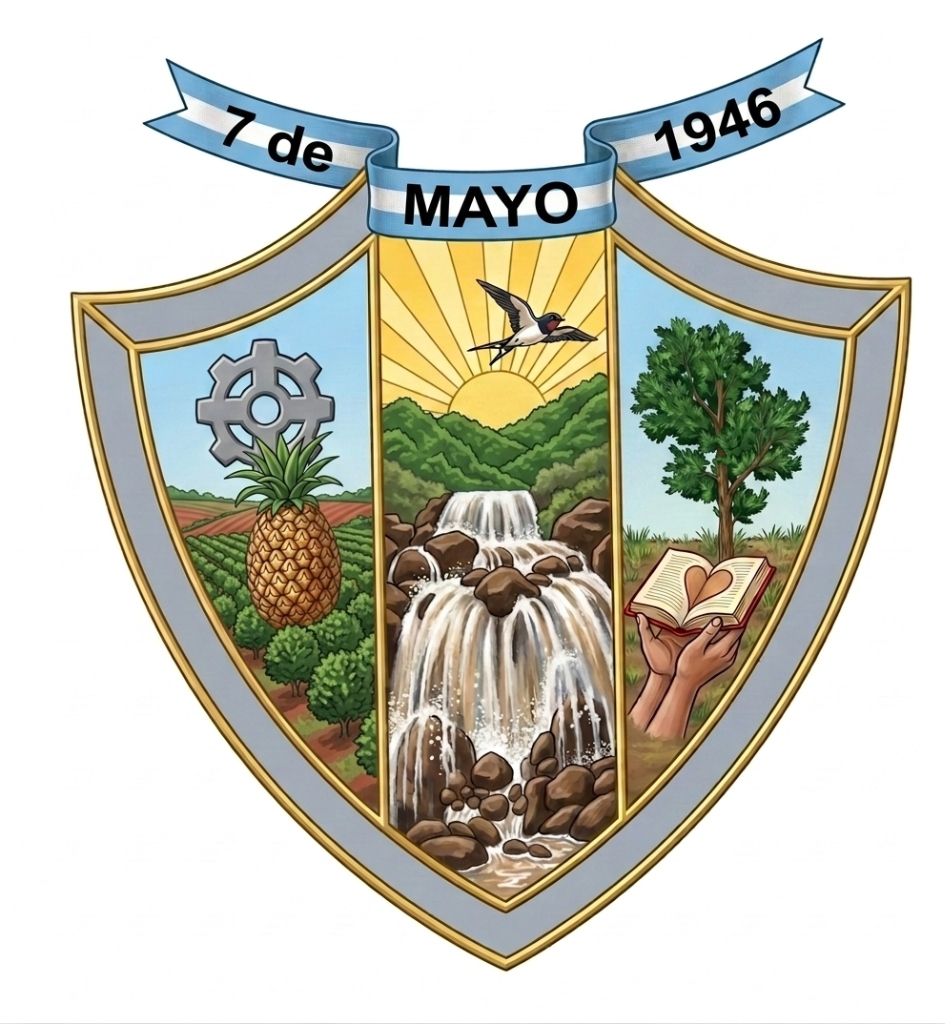
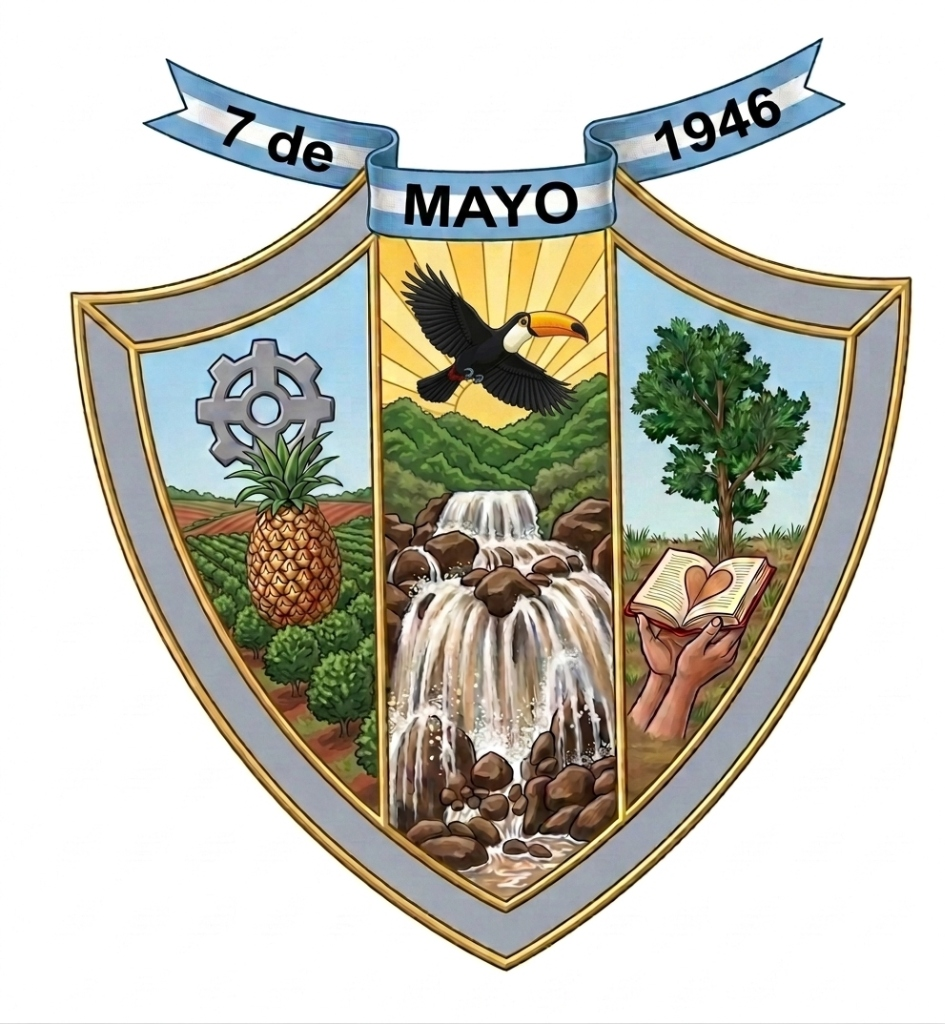
design: update city shield to toucan version, reposition to right side of Hero and increase size

diff --git a/index.html b/index.html
@@ -241,6 +241,59 @@
     }
     .hero-note span { display: flex; align-items: center; gap: .3rem; }
 
+    /* ── Hero Layout ────────────────────────────────────────── */
+    .hero-layout {
+      display: grid;
+      grid-template-columns: 1fr;
+      gap: 2rem;
+      align-items: center;
+    }
+    .hero-text-side {
+      text-align: center;
+    }
+    .hero-image-side {
+      display: flex;
+      justify-content: center;
+      align-items: center;
+    }
+    .hero-shield-img {
+      height: 180px;
+      width: auto;
+      border-radius: 16px;
+      box-shadow: 0 10px 30px rgba(0, 0, 0, 0.25);
+      border: 3.5px solid rgba(255, 255, 255, 0.5);
+      transition: transform 0.4s ease, box-shadow 0.4s ease;
+    }
+    .hero-shield-img:hover {
+      transform: scale(1.06) rotate(2deg);
+      box-shadow: 0 15px 40px rgba(0, 0, 0, 0.35);
+    }
+    @media (min-width: 769px) {
+      .hero-layout {
+        grid-template-columns: 1.2fr 0.8fr;
+        text-align: left;
+        gap: 3.5rem;
+      }
+      .hero-text-side {
+        text-align: left;
+      }
+      .hero-image-side {
+        justify-content: flex-end;
+      }
+      .hero-shield-img {
+        height: 280px;
+      }
+      .hero-desc {
+        margin: 0 0 2.25rem 0;
+      }
+      .hero-cta {
+        justify-content: flex-start;
+      }
+      .hero-note {
+        justify-content: flex-start;
+      }
+    }
+
     /* ── Stats bar ─────────────────────────────────────────── */
     .stats-bar {
       background: #fff;
@@ -646,28 +699,32 @@
 <!-- ── Hero ─────────────────────────────────────────────────── -->
 <section class="hero">
   <a href="tablero.html" class="hero-overlay-link" aria-label="Ver Tablero de Tarjetas"></a>
-  <div class="container">
-    <div style="margin-bottom: 1.25rem; display: flex; justify-content: center; position: relative; z-index: 2;">
-      <img src="assets/escudo_jardin_america.jpg" alt="Escudo de Jardín América" style="height: 90px; width: auto; border-radius: 10px; box-shadow: 0 6px 20px rgba(0,0,0,0.15); border: 2.5px solid rgba(255,255,255,0.45); transition: transform 0.3s;" onmouseover="this.style.transform='scale(1.05)'" onmouseout="this.style.transform='scale(1)'">
+  <div class="container hero-layout">
+    <div class="hero-text-side">
+      <span class="hero-badge">📍 Jardín América, Misiones — Portal Comunitario</span>
+      <h1>Cartelera de la Comunidad<br><span>profesionales, comercios y servicios</span></h1>
+      <p class="hero-desc">
+        Explorá nuestra cartelera digital de tarjetas interactivas. Encontrá servicios y comercios locales en Jardín América y contactalos al instante por WhatsApp, directo y sin vueltas.
+      </p>
+      <div class="hero-cta">
+        <a class="btn-primary" href="tablero.html" style="background: var(--purple-mid); box-shadow: 0 4px 15px rgba(124, 58, 237, 0.35);">
+          🖼️ Ver Tablero de Tarjetas
+        </a>
+        <a class="btn-primary" href="#" onclick="irAlAdmin('Hola! Quiero publicar mi tarjeta'); return false;" style="background: var(--green-wa); box-shadow: 0 4px 15px rgba(37, 211, 102, 0.35);">
+          📲 Sumar mi Tarjeta Gratis
+        </a>
+      </div>
+      <p class="hero-note">
+        <span>✔ 100% Gratis para el comercio</span>
+        <span>✔ Contacto directo al celular</span>
+        <span>✔ Buscador por rubros y palabras clave</span>
+      </p>
     </div>
-    <span class="hero-badge">📍 Jardín América, Misiones — Portal Comunitario</span>
-    <h1>Cartelera de la Comunidad<br><span>profesionales, comercios y servicios</span></h1>
-    <p class="hero-desc">
-      Explorá nuestra cartelera digital de tarjetas interactivas. Encontrá servicios y comercios locales en Jardín América y contactalos al instante por WhatsApp, directo y sin vueltas.
-    </p>
-    <div class="hero-cta">
-      <a class="btn-primary" href="tablero.html" style="background: var(--purple-mid); box-shadow: 0 4px 15px rgba(124, 58, 237, 0.35);">
-        🖼️ Ver Tablero de Tarjetas
-      </a>
-      <a class="btn-primary" href="#" onclick="irAlAdmin('Hola! Quiero publicar mi tarjeta'); return false;" style="background: var(--green-wa); box-shadow: 0 4px 15px rgba(37, 211, 102, 0.35);">
-        📲 Sumar mi Tarjeta Gratis
+    <div class="hero-image-side">
+      <a href="tablero.html" style="position: relative; z-index: 2; display: block;" aria-label="Ver Tablero de Tarjetas">
+        <img src="assets/escudo_jardin_america.jpg" alt="Escudo de Jardín América" class="hero-shield-img">
       </a>
     </div>
-    <p class="hero-note">
-      <span>✔ 100% Gratis para el comercio</span>
-      <span>✔ Contacto directo al celular</span>
-      <span>✔ Buscador por rubros y palabras clave</span>
-    </p>
   </div>
 </section>
 